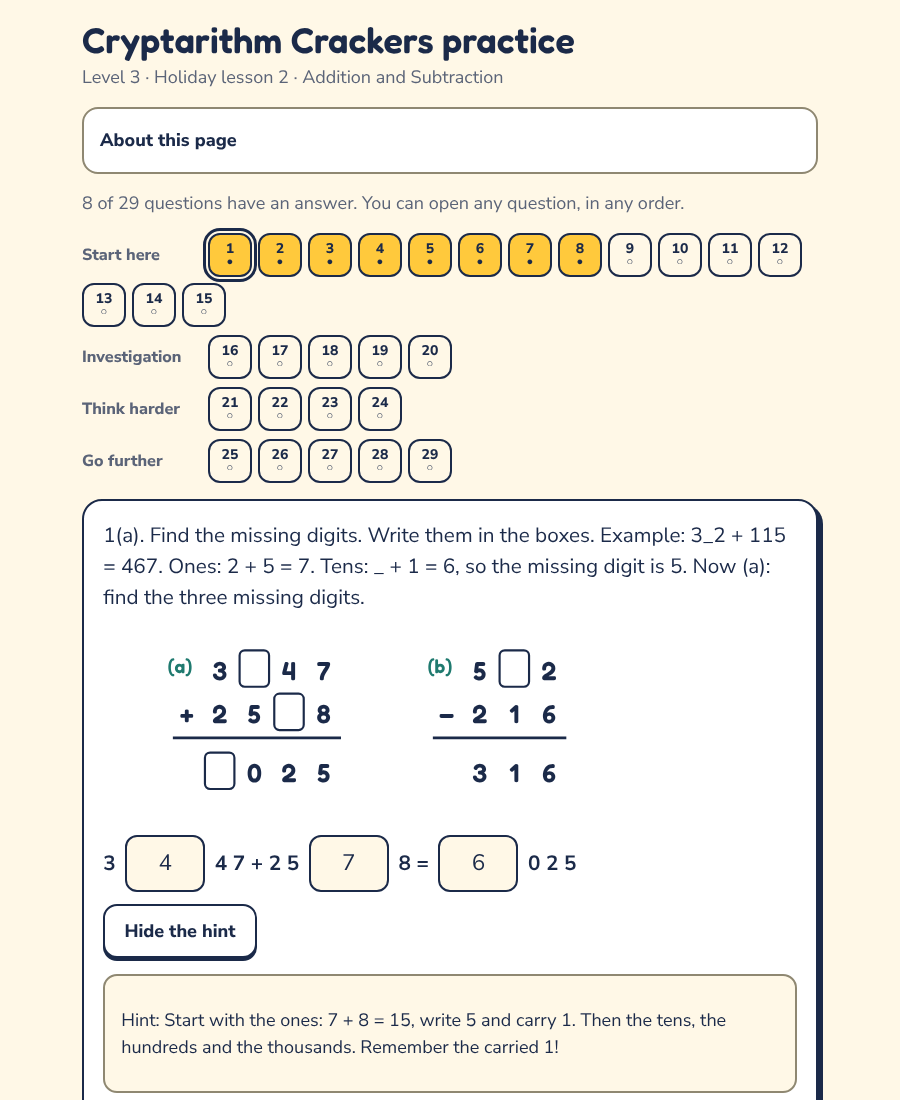
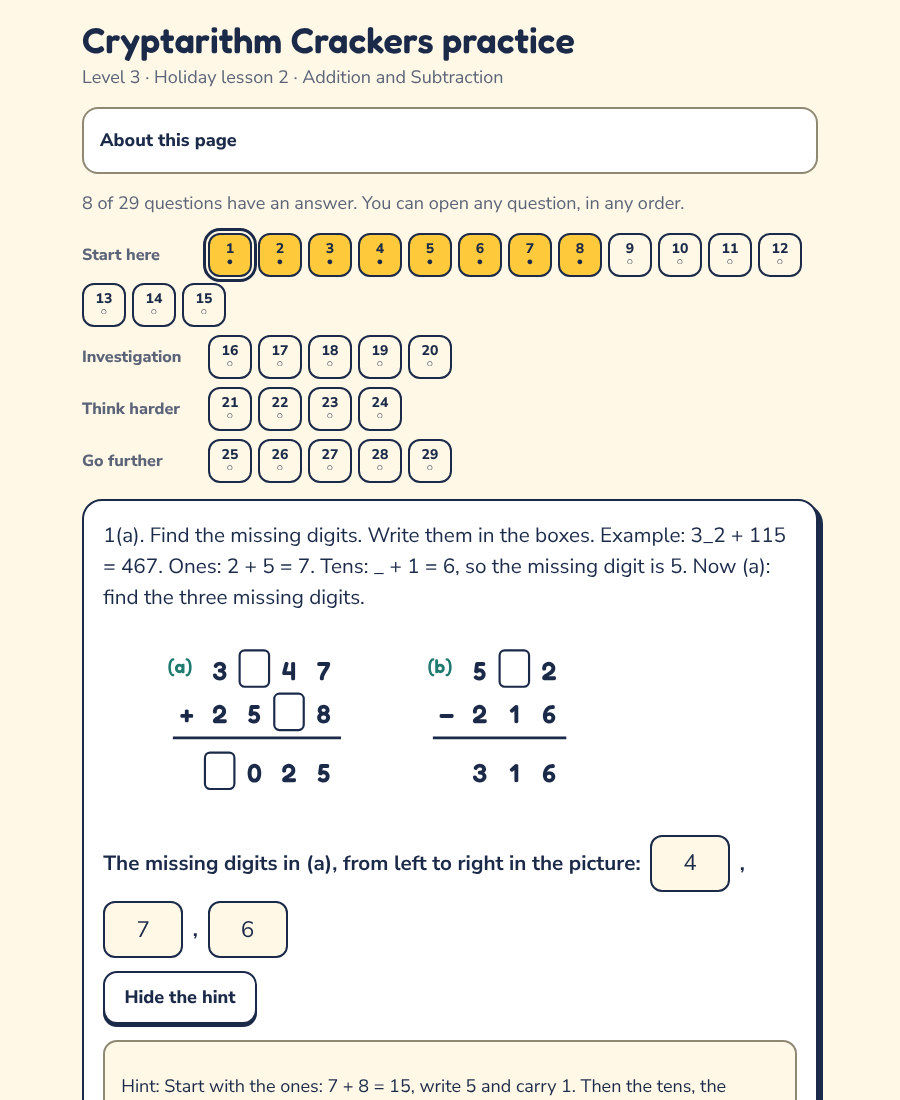
Holiday online practice: Level 3 week 1 (lessons 1 and 2: items, checkers, workbook figures, tests, proofs, STATUS)
Claude-Session: https://claude.ai/code/session_01Wmstm4fTDLXm5Z35vo5Mv2

Changed region(s): [[0.0933, 0.7727, 0.9022, 1.0], [0.8711, 0.9273, 0.9022, 0.9582]]

diff --git a/practice/holiday/p3/figs_p3.js b/practice/holiday/p3/figs_p3.js
@@ -22,11 +22,11 @@ out.l2_q1 = q1(['3?47', '25?8', '?025'], ['5?2', '216', '316']);
 out.l2_q1_sol = q1(['3447', '2578', '6025'], ['532', '216', '316']);
 out.l2_magic = big(B.magicSvg([1200, 1700, 1600, '', 1500, '', '', '', '']), 300);
 out.l2_magic_sol = big(B.magicSvg([1200, 1700, 1600, 1900, 1500, 1100, 1400, 1300, 1800]), 300);
-const pyr = (a, b) => B.svg('Two number pyramids' + (a.includes('') ? ' with missing bricks' : ' completed'), 160,
-  B.pyramid(30, a, '(a)') + B.pyramid(318, b, '(b)  corner bricks are equal'), 450);
+const pyr = (a, b) => B.svg('Two number pyramids' + (a.includes('') ? ' with missing bricks' : ' completed'), 340,
+  B.pyramid(30, a, '(a)') + '<g transform="translate(0,170)">' + B.pyramid(30, b, '(b)  corner bricks are equal') + '</g>', 310, 310);
 out.l2_pyr = pyr([5975, '', 3600, 1250, '', ''], [7000, '', '', '', 2000, '']);
 out.l2_pyr_sol = pyr([5975, 2375, 3600, 1250, 1125, 2475], [7000, 3500, 3500, 1500, 2000, 1500]);
-const one = v => B.svg('A number pyramid', 130, B.pyramid(30, v, ''), 310, 310);
+const one = v => B.svg('A number pyramid', 160, B.pyramid(30, v, ''), 310, 310);
 out.l2_t3 = one([6000, 2650, '', 1200, '', '']);
 out.l2_t3_sol = one([6000, 2650, 3350, 1200, 1450, 1900]);
 console.log(JSON.stringify(out));

diff --git a/practice/holiday/p3/02/lesson.py b/practice/holiday/p3/02/lesson.py
@@ -108,7 +108,7 @@ SOL_MAGIC = magic_solve([1200, 1700, 1600], 1500)
 
 ITEMS = [
     # ================= Start here (workbook lesson 2, No.1 to No.6)
-    I(id='1a', tier='core', no='1(a)', type='fields', skill='missing digits in an addition', answer=[4, 7, 6], svg=FIG['l2_q1'], frame='3 {f1} 4 7  +  2 5 {f2} 8  =  {f3} 0 2 5',
+    I(id='1a', tier='core', no='1(a)', type='fields', skill='missing digits in an addition', answer=[4, 7, 6], svg=FIG['l2_q1'], frame='The missing digits in (a), from left to right in the picture: {f1}, {f2}, {f3}',
       q='Find the missing digits. Write them in the boxes. Example: 3_2 + 115 = 467. Ones: 2 + 5 = 7. Tens: _ + 1 = 6, so the missing digit is 5. Now (a): find the three missing digits.',
       check=lambda: one([[a, b, c] for a in range(10) for b in range(10) for c in range(10) if 3000 + a * 100 + 47 + 2500 + b * 10 + 8 == c * 1000 + 25]),
       sol_fig=lambda got: FIG['l2_q1_sol'],

diff --git a/practice/holiday/p3/STATUS.md b/practice/holiday/p3/STATUS.md
@@ -1,0 +1,33 @@
+# Level 3 (ages 8 to 10, key p3): online practice for holiday WEEK 1 (lessons 1 and 2)
+
+Week 1 = lessons 1 and 2 (`website/data/beta_schedule.json`: group L3, Tue and Fri, lessons n=1,2 in the first week). Built, tested, NOT deployed; no website/dist, Supabase or sending.
+
+Build and test (shared script and runner, nothing of them edited):
+
+    python3 practice/holiday/build_holiday.py p3 1      # -> practice/holiday/p3/01/dist   (git-ignored)
+    python3 practice/holiday/test_holiday.py p3 1       # Chromium, 390 px and 900 px, light and dark; proofs in p3/01/proof
+    (same with 2)                                       # serve: python3 -m http.server -d practice/holiday/p3/01/dist 8792
+
+## Where the questions come from
+The printed workbook is built by `p3/workbook_html.js` from `p3/content/lN.js` (Start here = `workbook(H)`, Think harder 1 to 4 = `qbank.stretch[0..3]`, Go further 5 to 7 = `qbank.challenge[-3:]`, Take-home = `deck.takeHome`) and `p3/gifted.json` (Investigation). It is code, not data, so the structured items in `p3/0N/lesson.py` were written from those exact sources; `build_holiday.py` fails unless every printed fragment (`src`) occurs in those source files. The figures are the workbook's own: `figs_p3.js` compiles the helper functions of `p3/content/l1.js` and `l2.js` (cards, column sums, magic square, pyramids) and prints them as SVG, including completed versions used as the correct-answer pictures. `p3lib.py` holds small brute-force helpers.
+
+## Counts (every item has a hint, a worked solution, tags strand and skill)
+| Lesson | Items | Auto-marked | Self-check (never auto-marked) | Paper-only drawing | Types | Variant families (combinations all equal the oracle) |
+|---|---|---|---|---|---|---|
+| 1 Number Sleuths (Numbers to 10 000) | 38 | 34 | 4 | 0 | number 19, fields 8, set 4, choice 3, selfcheck 4 | 4 (351) |
+| 2 Cryptarithm Crackers (Addition and Subtraction) | 29 | 23 | 6 | 0 | number 12, fields 11, selfcheck 6 | 4 (95) |
+
+Each lesson: Start here (all printed questions including the "(if time)" ones), Investigation (No. 8 with the "Easy first step"), Think harder 1 to 4, Go further 5 to 7, Take-home pair. Items by tier L1: core 23, invest 5, stretch 5, challenge 5; L2: core 15, invest 5, stretch 4, challenge 5 (the shared runner lists Investigation before Think harder; the printed order is Think harder, Go further, Investigation).
+Checkers: every answer is recomputed by loops or brute force over the numbers in the question (permutations of cards, all digit assignments, all 4-digit numbers, pyramid/magic-square line tests, 8! splits for the 4-digit difference); puzzles that print "the only way" are checked to have exactly one solution. All 10 self-check items are "explain", "notice" or "make up your own" prompts; each still carries a check of the fact the model answer states (for example that every reverse-subtraction answer is 99 times the digit gap, checked for all 3-digit numbers).
+
+## Not mirrored one to one, and why
+- No drawing/ruler task exists in these two lessons, so no paper-only items; "Make up your own" puzzles (L1 Go further 5, L2 Go further 5) and the Investigation "try 4 more numbers" are open self-checks with an example shown after submit.
+- Lists (L1 No. 2, 6; Think harder 2; Investigation 8(a)) are typed with commas, any order accepted (the book asks for "in order"; order is not marked). The "How many ...?" part of each is its own number item so it is auto-marked.
+- Digit-card questions where the printed answer lines are several numbers (L2 No. 2(a), 2(b), 2(c), Go further 6) ask only for the sum or difference to be typed: many pairs of numbers give the same sum (1173, 381), and the pair is worked on paper. Reworded items on screen: L1 8, L2 7 (the report line "reworded"); the printed text is in each item's `src`.
+- Printed lines for working ("write all the numbers", "write your tries", the look-back page, tool-of-the-day card, strategy card, name/date line) are not items. The "Look back" reflection is a paper routine and has no online version.
+- Cut-out digit cards: the cards are drawn on screen, so no cutting is needed. L2 Think harder 3 has a pyramid picture that the printed page does not have (the page only describes it in words); added so the child can see it.
+- No variants for the card-arrangement questions (L1 No. 1 to 2, Think harder 1 to 2, L2 No. 2): their answers come from permutations, which the shared template language (arithmetic only) cannot express. Variants exist where the answer is arithmetic: L1 3(a), 4(a), 4(b), Take-home (a); L2 5(a), 5(c), Think harder 4, Take-home (a).
+
+## Open questions for the owner
+1. Should the Investigation and Take-home pair be shown by default, or hidden behind "Want more?" like the printed "You choose" box? (They are shown as their own groups now.)
+2. The printed workbook says "Think harder" is optional; online all groups are visible. Keep?
